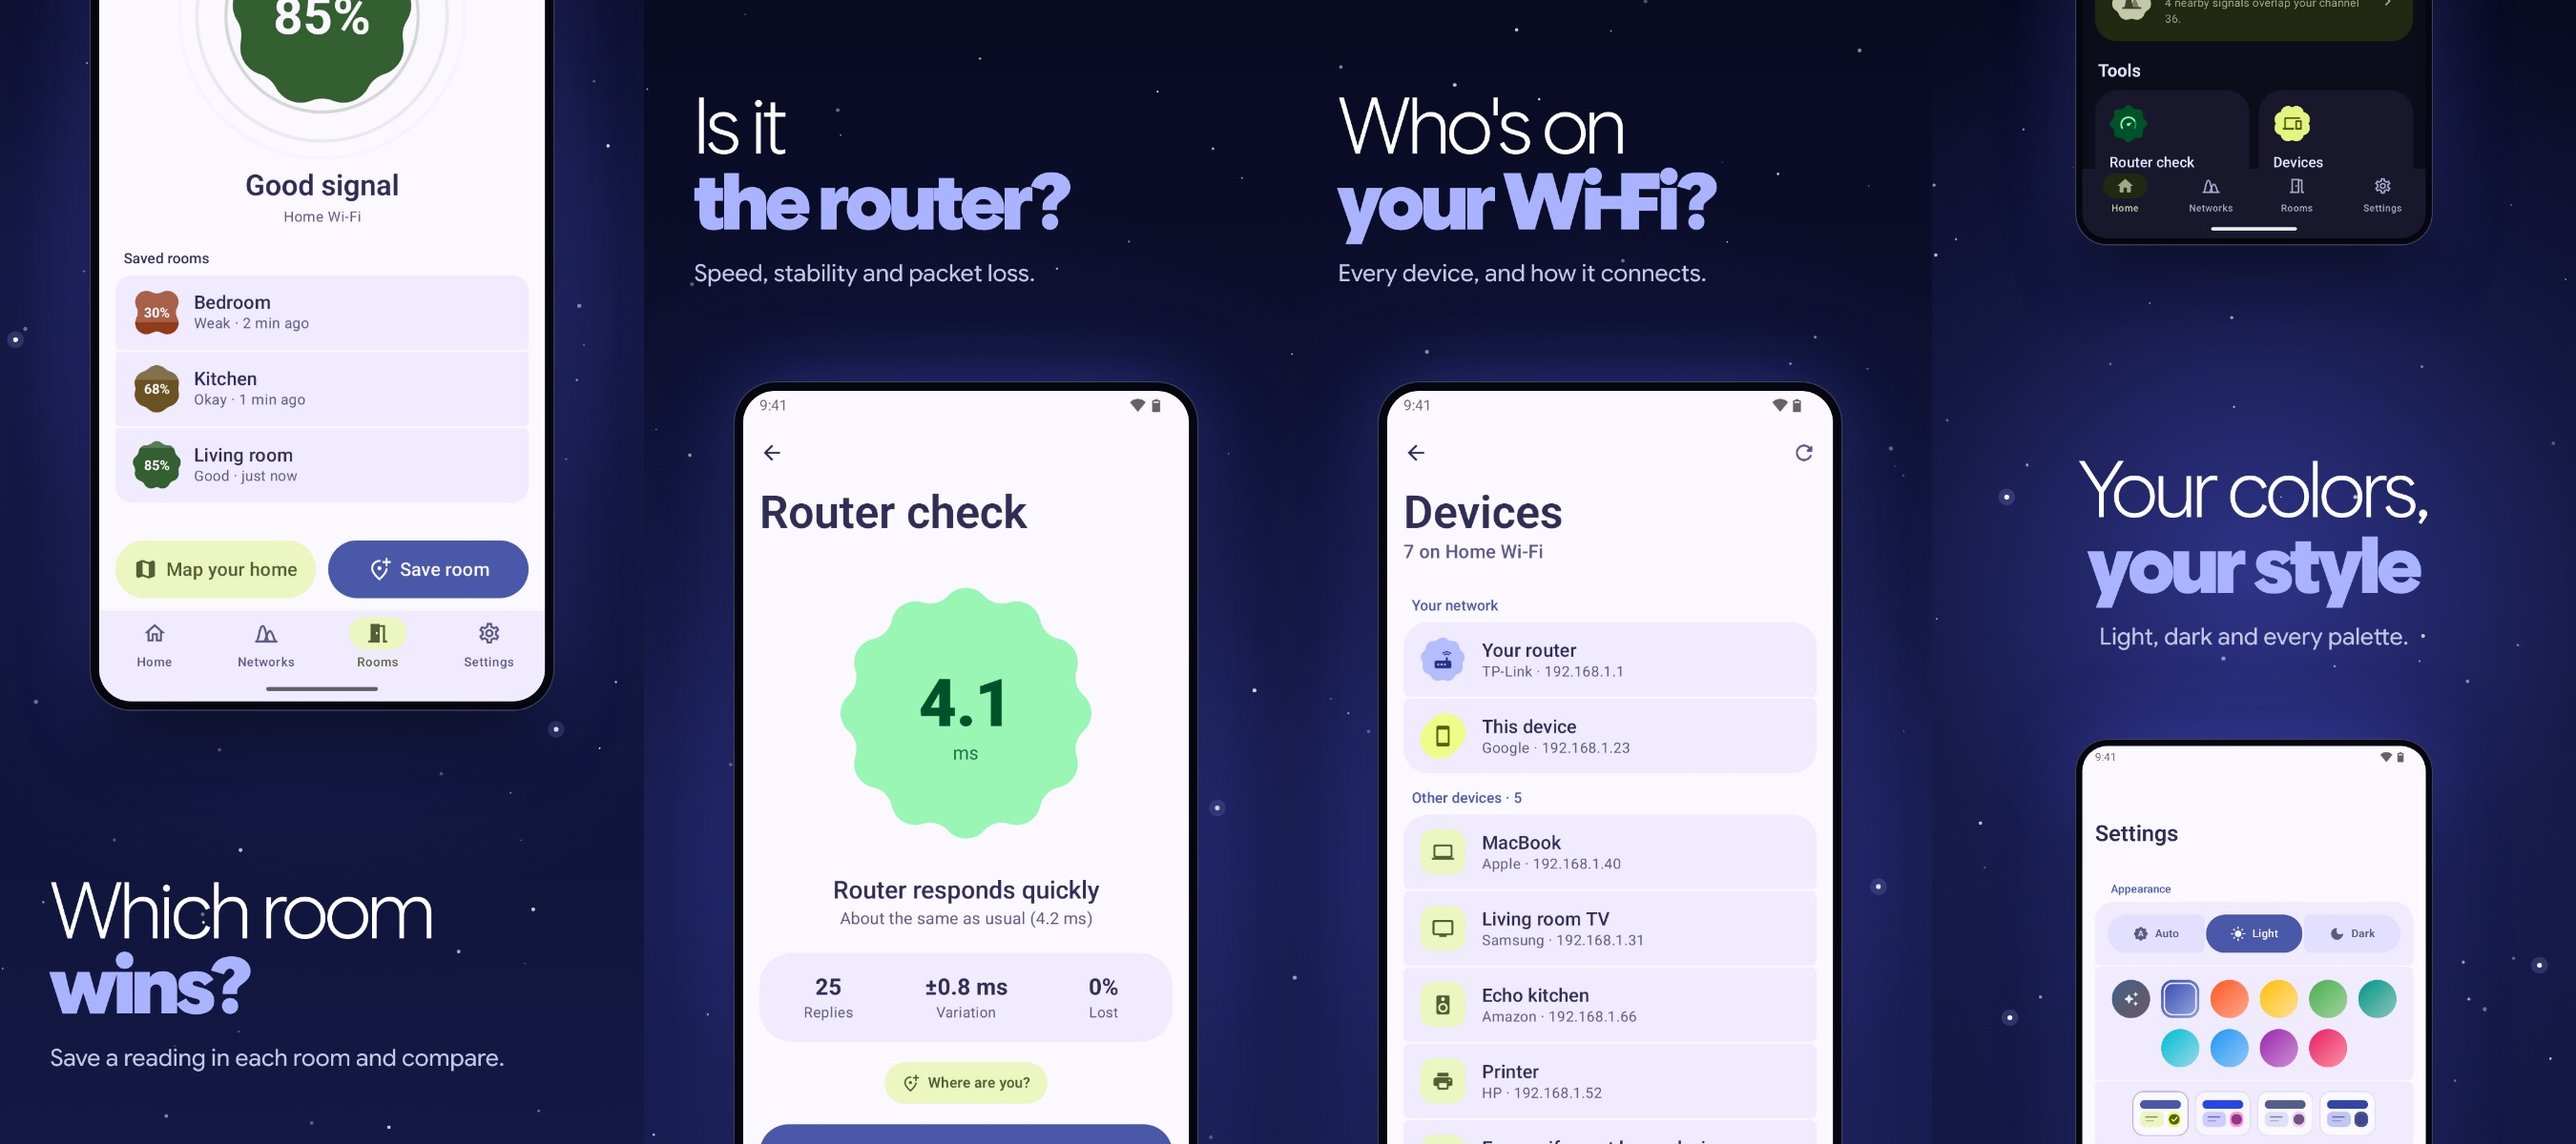
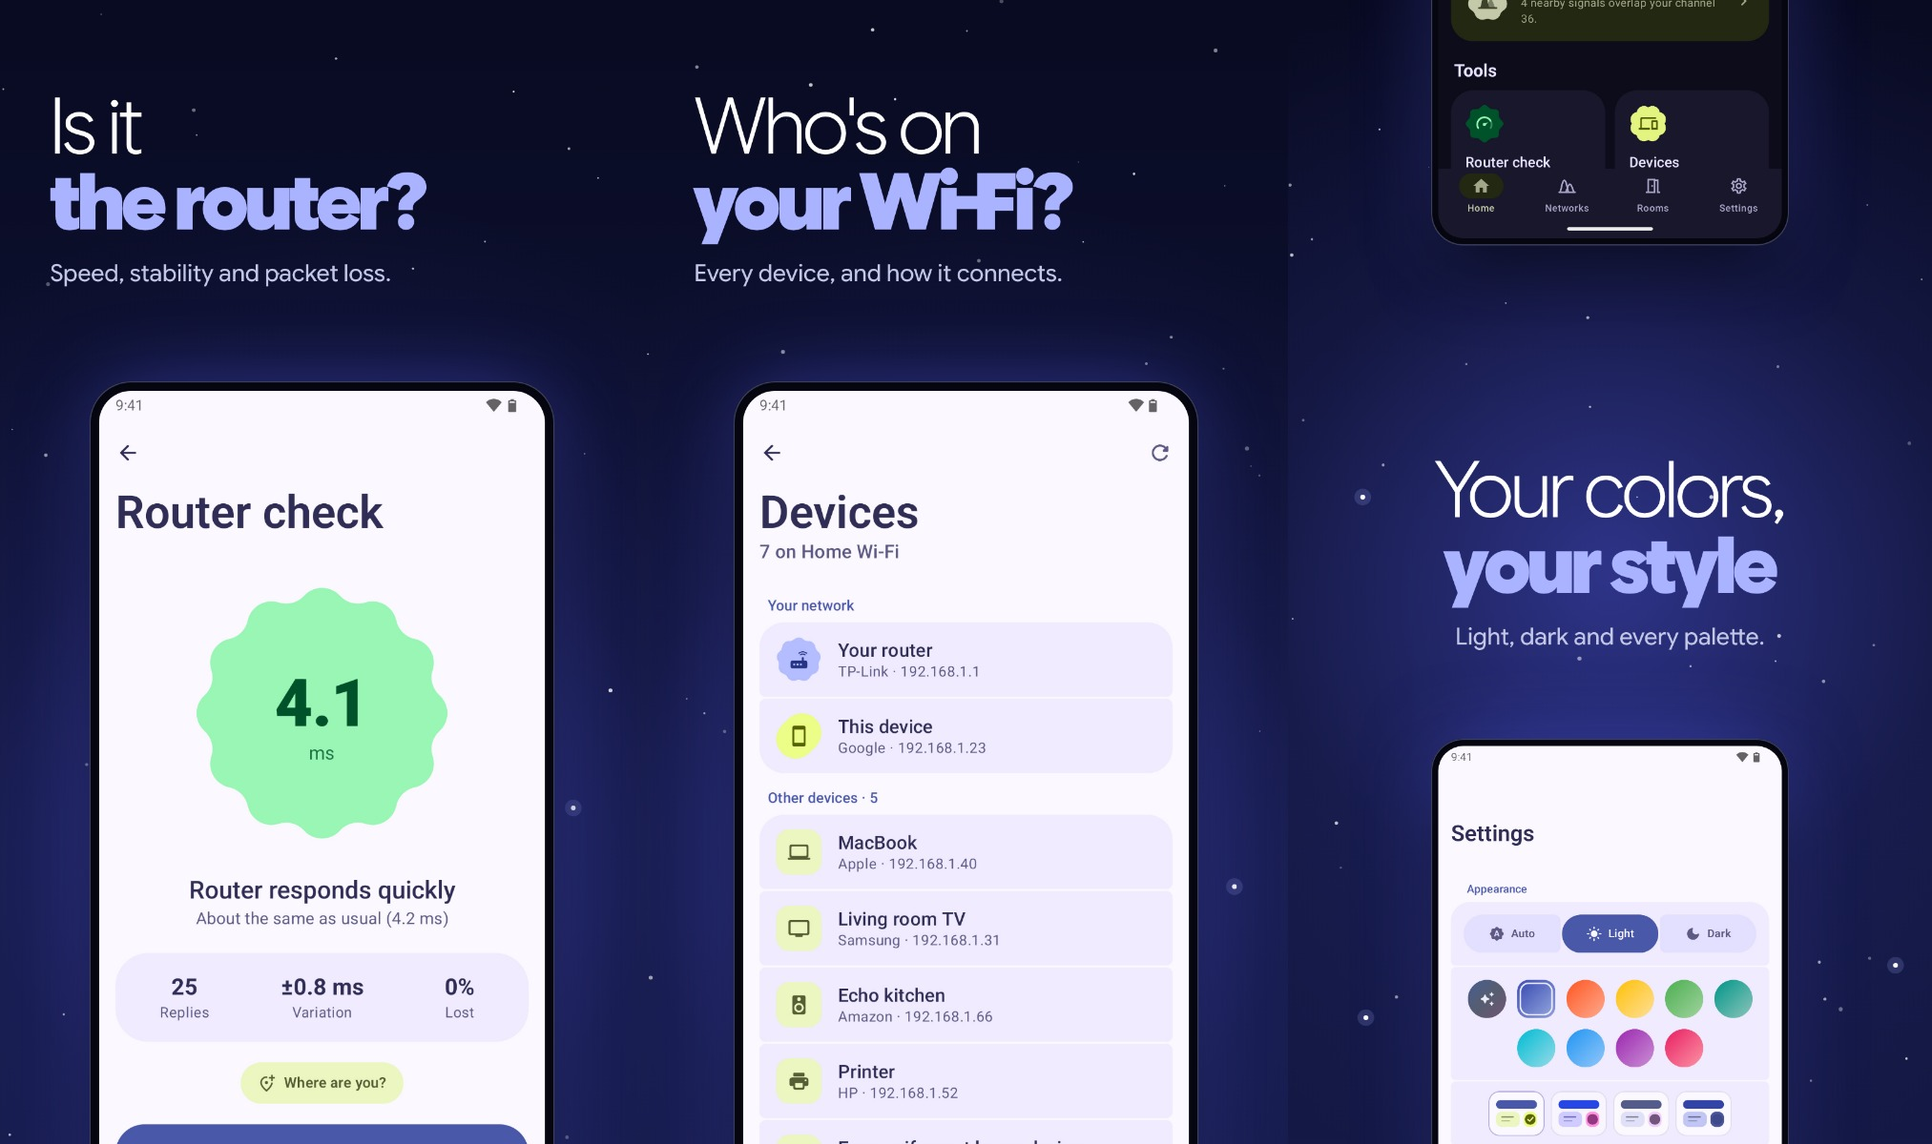
Tell the README without repeats: the spread for networks, then map and rooms, then router, devices and colors

diff --git a/README.md b/README.md
@@ -11,22 +11,22 @@ A Wi-Fi analyzer for Android 8.0 and newer, built with Material 3 Expressive.</p
   <a href="https://play.google.com/store/apps/details?id=com.bernaferrari.wifiweakspot"><img src="https://play.google.com/intl/en_us/badges/static/images/badges/en_badge_web_generic.png" height="80" alt="Get it on Google Play"></a>
 </p>
 
-<p align="center">
-  <img src="store-listing/en-US/readme/strip-1.jpg" width="100%" alt="Find your weak spots; see where it fades; pick a quiet channel; walk and watch it change">
-</p>
-
 ## See what overlaps
 
 Every nearby 2.4, 5 and 6 GHz network, drawn as channel waves so overlap is obvious. Tap a wave for details, get a suggested channel, or switch to history and watch each signal change as you walk around.
 
 ## Find where Wi-Fi gets weak
 
+<p align="center">
+  <img src="store-listing/en-US/readme/strip-1.jpg" width="67%" alt="See where it fades: the coverage map; which room wins: saved room readings compared">
+</p>
+
 Save a reading in each room and compare them with a percentage, a color and a plain-language verdict. Then tap where you stand on a grid or your own floor plan to build a coverage map, keep separate floors, and share the result as a picture. Recheck the same spots after moving your router to see what changed.
 
 ## Look beyond signal strength
 
 <p align="center">
-  <img src="store-listing/en-US/readme/strip-2.jpg" width="100%" alt="Which room wins; is it the router; who's on your Wi-Fi; your colors, your style">
+  <img src="store-listing/en-US/readme/strip-2.jpg" width="100%" alt="Is it the router; who's on your Wi-Fi; your colors, your style">
 </p>
 
 - **Check your router.** Response time, variation and missed replies, with past checks kept for comparison.
